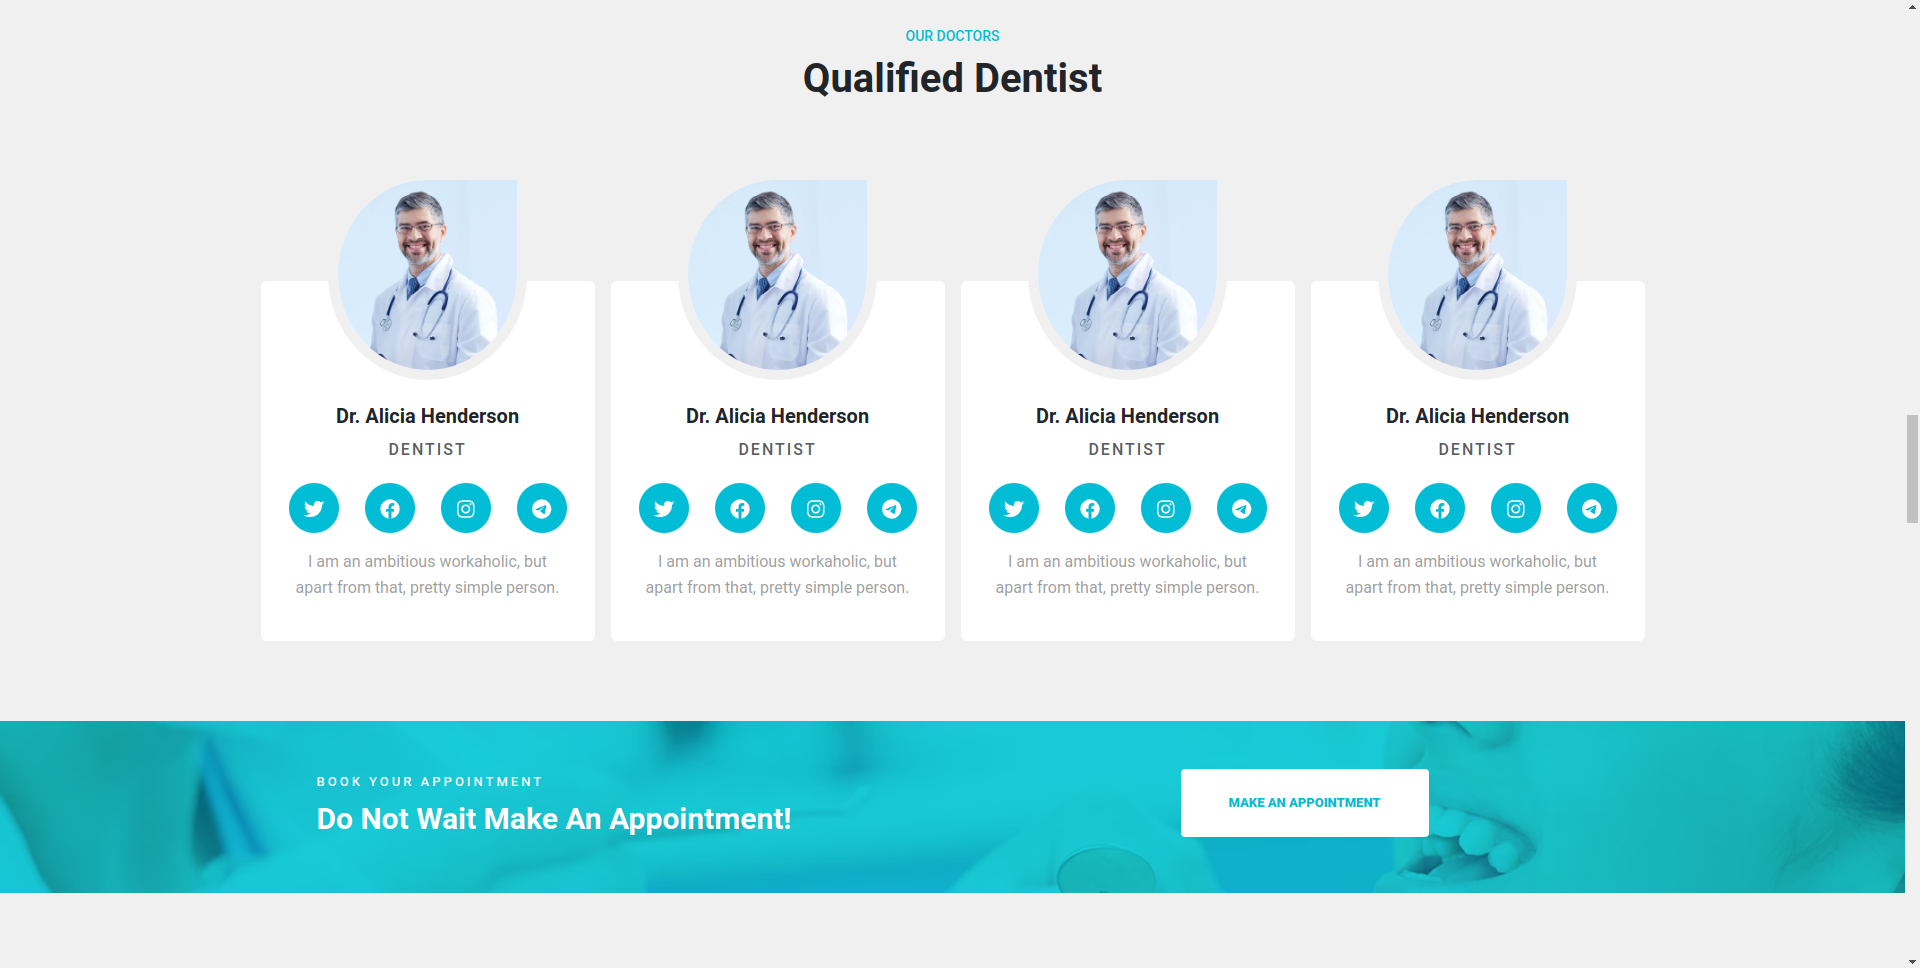
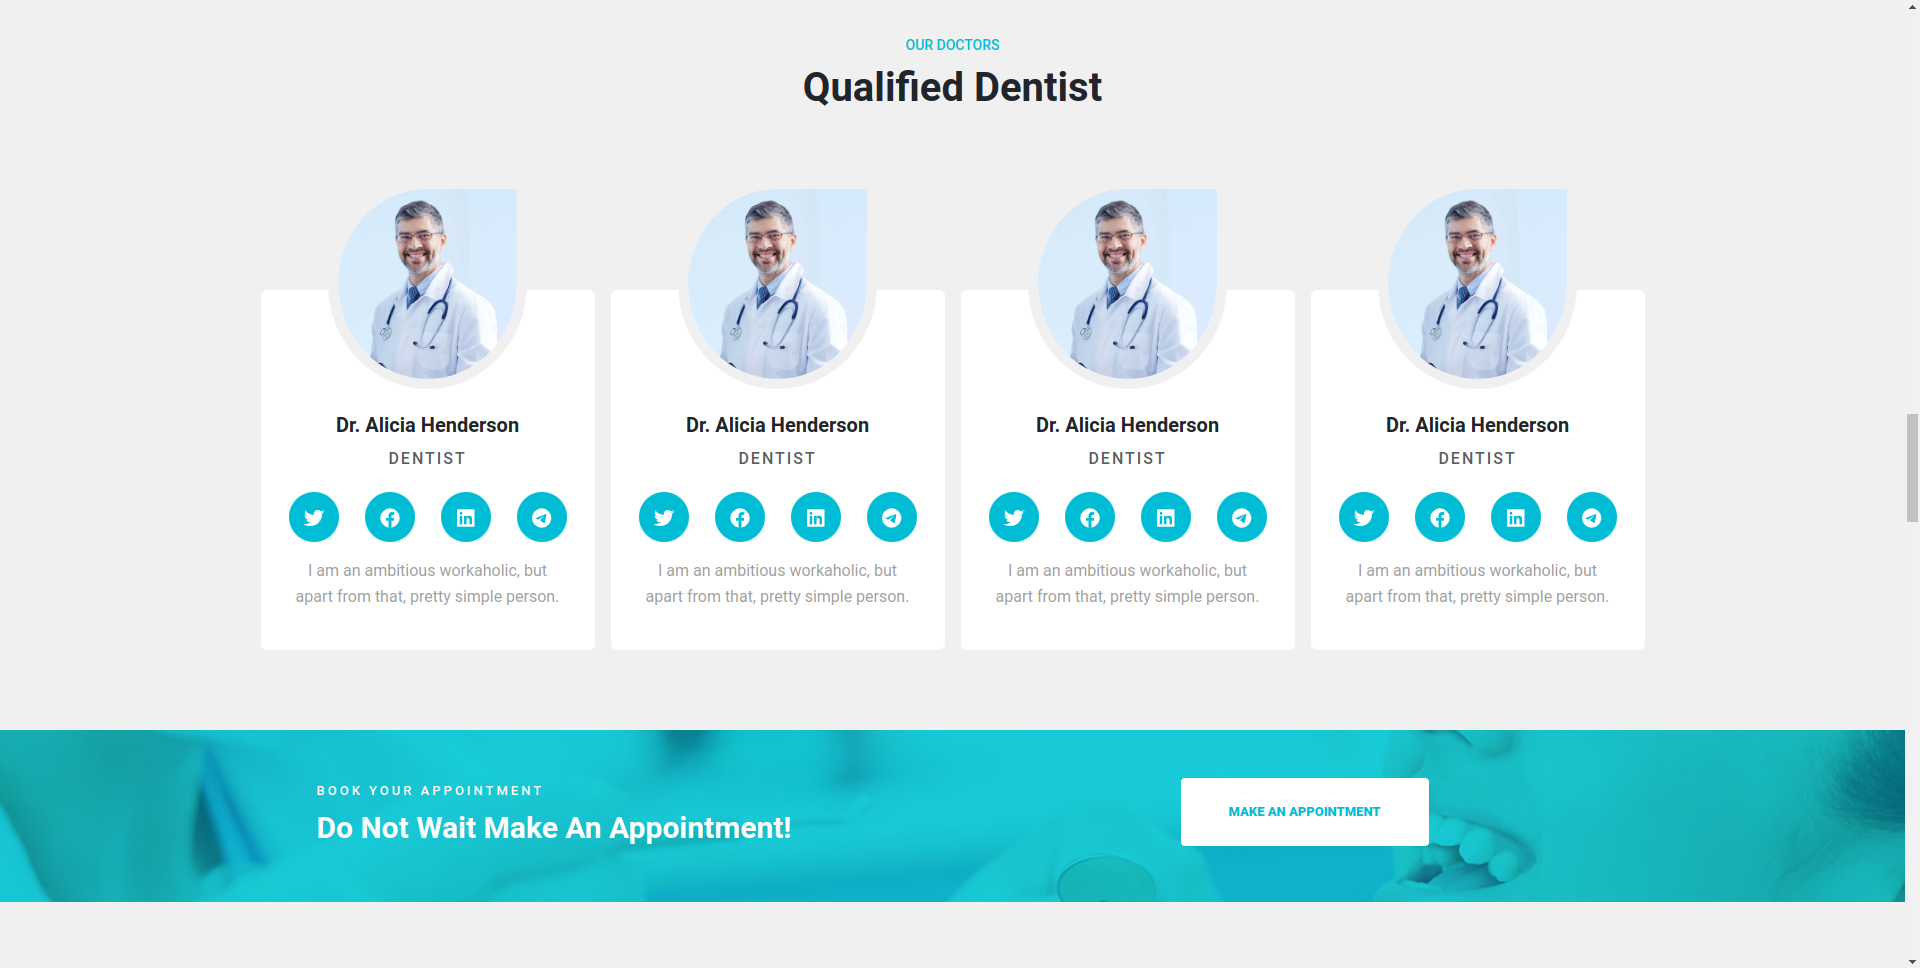
some changes to readme

diff --git a/components/main-section/dentist-section/DentistSection.jsx b/components/main-section/dentist-section/DentistSection.jsx
@@ -13,7 +13,7 @@ const DentistSection = () => {
         }, {
             icon: 'fa-brands fa-facebook',
         }, {
-            icon: 'fa-brands fa-instagram',
+            icon: 'fa-brands fa-linkedin',
         }, {
             icon: 'fa-brands fa-telegram'
         }],
@@ -27,7 +27,7 @@ const DentistSection = () => {
         }, {
             icon: 'fa-brands fa-facebook',
         }, {
-            icon: 'fa-brands fa-instagram',
+            icon: 'fa-brands fa-linkedin',
         }, {
             icon: 'fa-brands fa-telegram'
         }],
@@ -41,7 +41,7 @@ const DentistSection = () => {
         }, {
             icon: 'fa-brands fa-facebook',
         }, {
-            icon: 'fa-brands fa-instagram',
+            icon: 'fa-brands fa-linkedin',
         }, {
             icon: 'fa-brands fa-telegram'
         }],
@@ -55,7 +55,7 @@ const DentistSection = () => {
         }, {
             icon: 'fa-brands fa-facebook',
         }, {
-            icon: 'fa-brands fa-instagram',
+            icon: 'fa-brands fa-linkedin',
         }, {
             icon: 'fa-brands fa-telegram'
         }],
